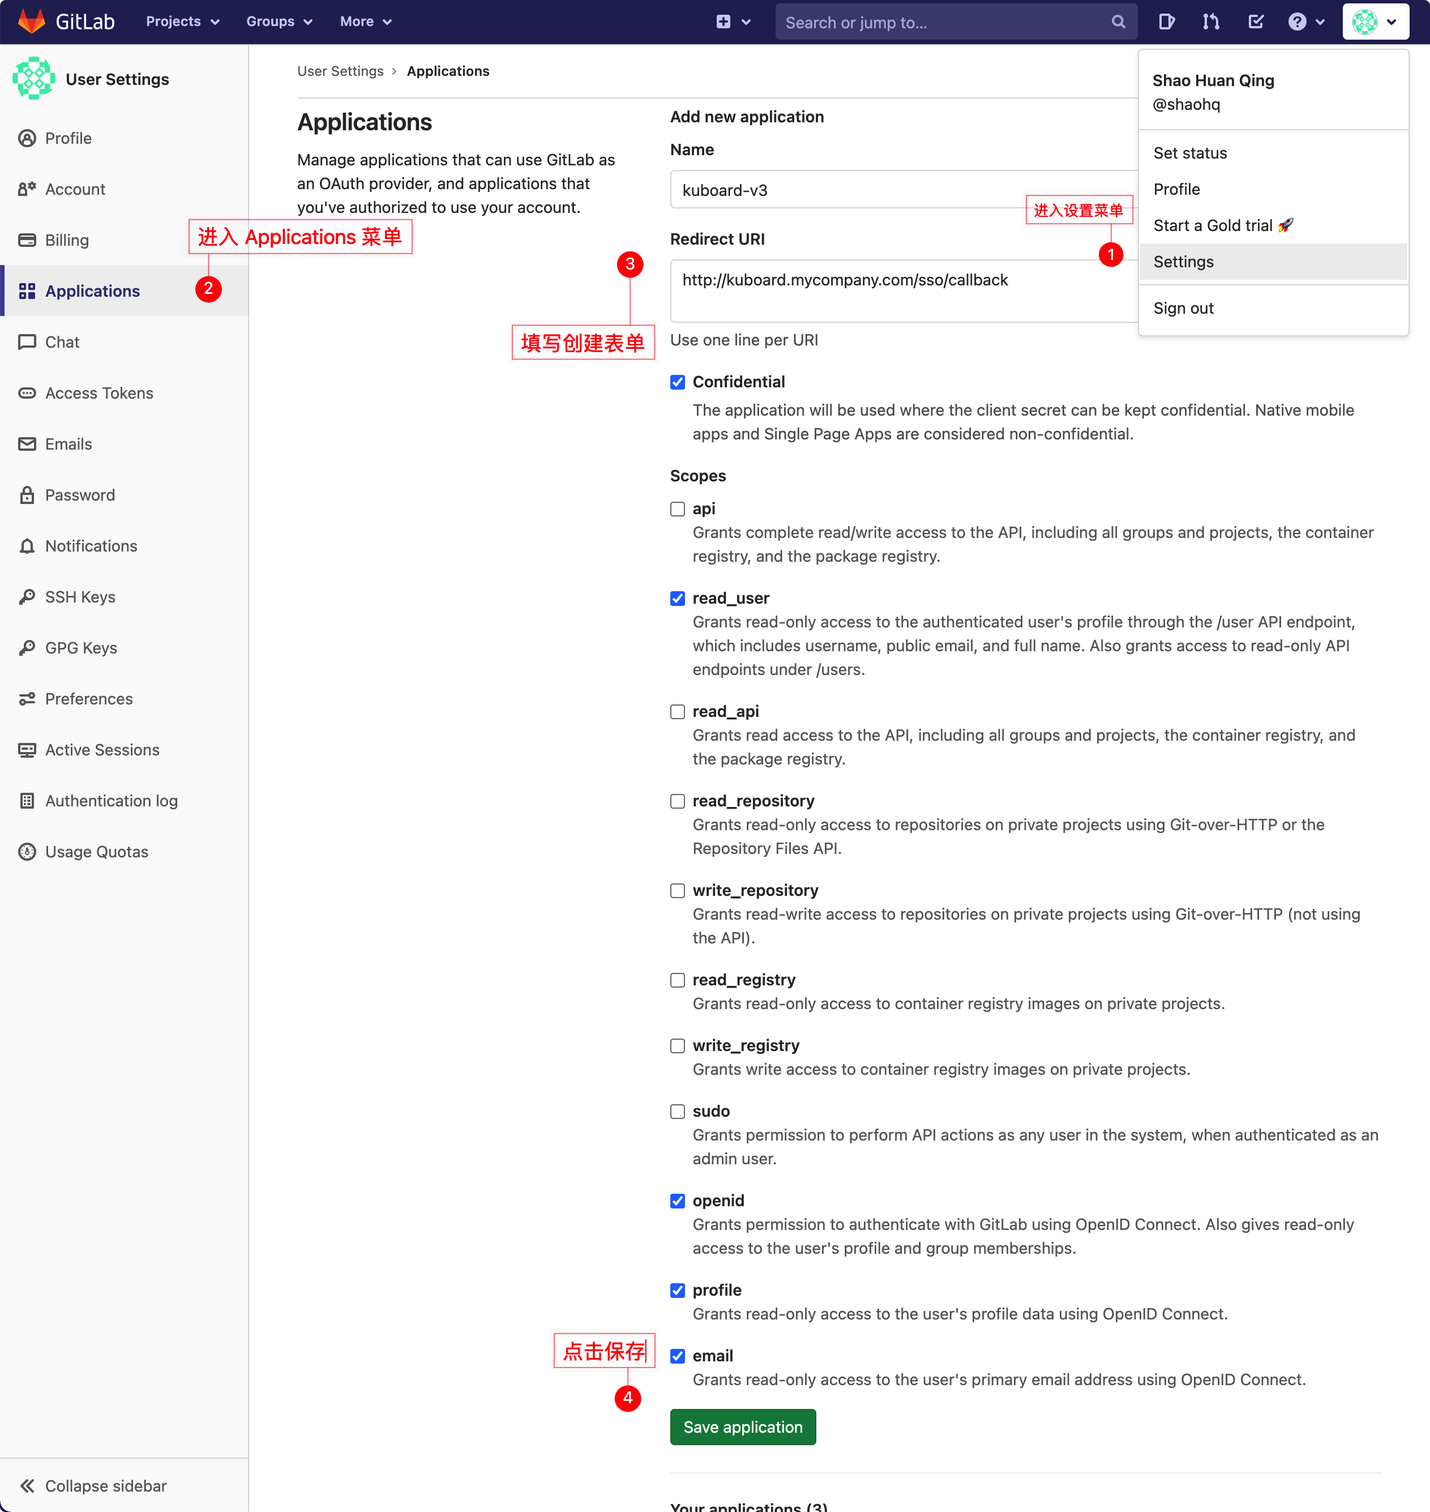
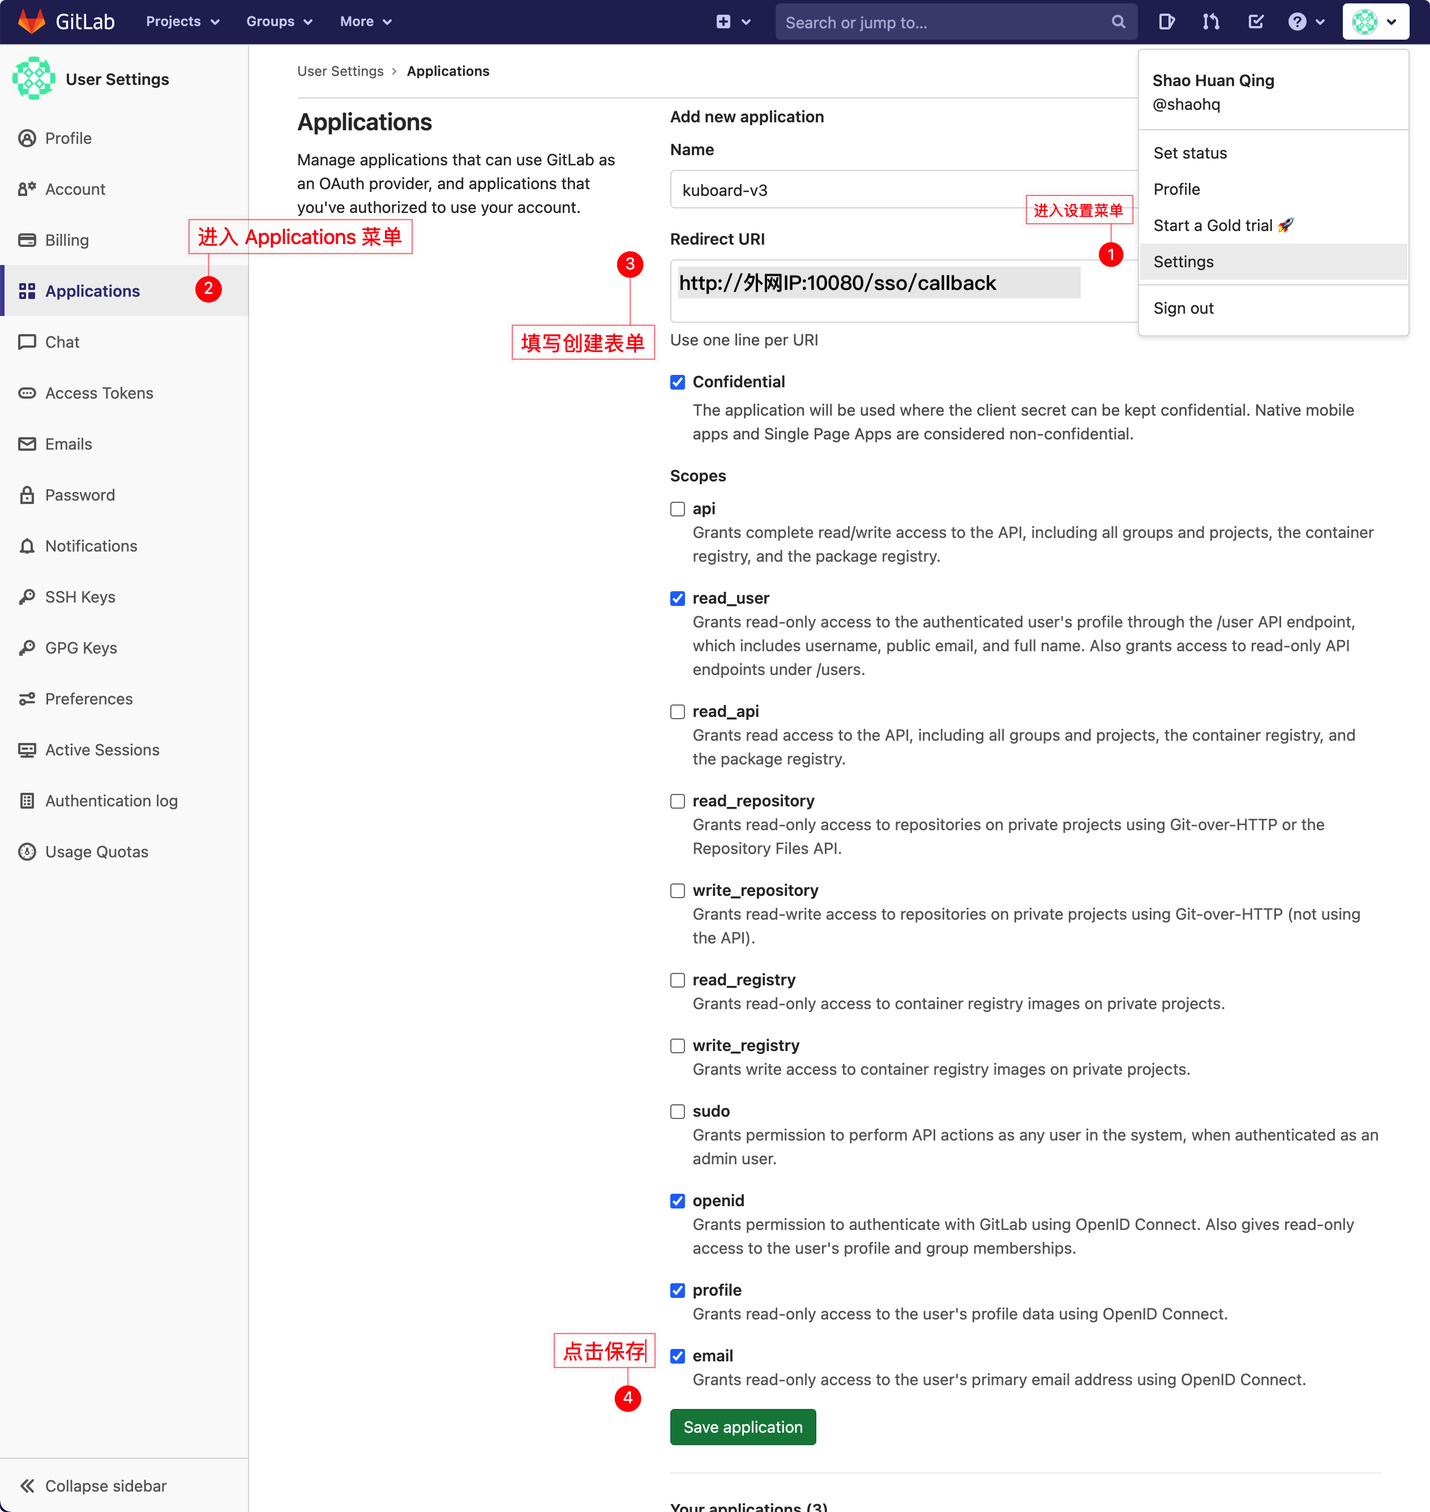
优化 Kuboard v3 的安装文档

Changed region(s): [[0.4632, 0.1554, 0.772, 0.2176]]

diff --git a/install/v3/install-gitlab.md b/install/v3/install-gitlab.md
@@ -29,25 +29,21 @@ Kuboard 支持多种认证方式：
 
 在正式安装 kuboard v3 之前，需做好一个简单的部署计划的设计，在本例中，各组件之间的连接方式，如下图所示：
 
-* 用户通过 http://gitlab.mycompany.com 访问 gitlab；
+* 用户通过 http://gitlab.this-is-a-sample.com 访问 gitlab；
 
-* 用户通过 http://kuboard.mycompany.com 访问 Kuboard v3；
+* 用户通过 http://外网IP:10080 访问 Kuboard v3；
 
-* Kuboard 通过 http://gitlab.mycompany.com 访问 GitLab API；
+* Kuboard 通过 http://gitlab.this-is-a-sample.com 访问 GitLab API；
 
-* 安装在 Kubernetes 中的 Kuboard Agent 通过 `kuboard.mycompany.com` 访问 Kuboard 的 Web 服务端口 80 / 443 和 Kuboard Agent Server 端口 10081。
+* 安装在 Kubernetes 中的 Kuboard Agent 通过 `内网IP:10080` 访问 Kuboard 的 Web 服务端口 10080 和 Kuboard Agent Server 端口 10081。
 
-  ::: tip 域名解析
-  * 必须能够通过 DNS 正确解析到该域名，如果直接在宿主机配置 `/etc/hosts` 文件，将不能正常运行；
-  * 如果不方便配置 DNS，也可以直接使用 IP 地址，例如 `http://192.168.32.21`。
-  :::
 
-![image-20201115223736418](./install-gitlab.assets/image-20201115223736418.png)
+![image-20210109224438846](./install-gitlab.assets/image-20210109224438846.png)
 
 本例子中，假设：
 
 * 您已经准备好了一个 Linux 服务器用于安装 Kuboard-V3
-* 您的 gitlab 已经完成安装且版本不低于 11，并且可以从用户的浏览器以及用于安装 Kuboard-V3 的服务器访问到（使用 URL http://gitlab.mycompany.com）
+* 您的 gitlab 已经完成安装且版本不低于 11，并且可以从用户的浏览器以及用于安装 Kuboard-V3 的服务器访问到（使用 URL http://gitlab.this-is-a-sample.com）
   * 本例子支持 gitlab-ce / gitlab-ee，也支持 gitlab.com
 
 
@@ -61,7 +57,7 @@ Kuboard 支持多种认证方式：
 | 字段名称     | 字段取值                                   | 字段说明                                                     |
 | ------------ | ------------------------------------------ | ------------------------------------------------------------ |
 | Name         | kuboad-v3                                  | 应用程序在 GitLab 中的标识，例如，此处填写了 kuboard-v3      |
-| Redirect URI | http://kuboard.my-company.com/sso/callback | 登录成功后的回调 URL，必须填写绝对路径，且必须指定到 kuboard 的 `/sso/callback` 路径 |
+| Redirect URI | http://外网IP:10080/sso/callback | 登录成功后的回调 URL，必须填写绝对路径，且必须指定到 kuboard 的 `/sso/callback` 路径 |
 | Scopes       | read_user / openid / profile / email       | 应用程序可以访问的 GitLab 接口范围，对于 Kuboard 而言，必须勾选如下几个选项： read_user / openid / profile / email |
 
 ![image-20201113212028264](./install-gitlab.assets/image-20201113212028264.png)
@@ -79,16 +75,17 @@ Kuboard 支持多种认证方式：
 sudo docker run -d \
   --restart=unless-stopped \
   --name=kuboard \
-  -p 80:80/tcp \
+  -p 10080:80/tcp \
   -p 10081:10081/udp \
   -p 10081:10081/tcp \
   -v /root/kuboard-data:/data \
   -e KUBOARD_LOGIN_TYPE="gitlab" \
-  -e KUBOARD_ENDPOINT="http://kuboard.mycompany.com" \
+  -e KUBOARD_ENDPOINT="http://内网IP:10080" \
+  # 内网 IP 不能是 127.0.0.1 或者 localhost \
   -e KUBOARD_AGENT_SERVER_UDP_PORT="10081" \
   -e KUBOARD_AGENT_SERVER_TCP_PORT="10081" \
   -e KUBOARD_ROOT_USER="shaohq" \
-  -e GITLAB_BASE_URL="http://gitlab.mycompany.com" \
+  -e GITLAB_BASE_URL="http://gitlab.this-is-a-sample.com" \
[2 lines of base64/hex data omitted]
   eipwork/kuboard:v3
@@ -96,26 +93,29 @@ sudo docker run -d \
 ```
 
 ::: danger 
-kuboard.mycompany.com 是一个假想域名，请替换成您自己的域名（运行 Kuboard 的宿主机以及所有 Kubernetes 节点都可以解析该域名），或者使用 IP 地址；
+* KUBOARD_ENDPOINT 参数的作用是，让部署到 Kubernetes 中的 `kuboard-agent` 知道如何访问 Kuboard Server；
+* KUBOARD_ENDPOINT 中也可以使用外网 IP；
+* 建议在 KUBOARD_ENDPOINT 中使用域名；
+* 如果使用域名，必须能够通过 DNS 正确解析到该域名，如果直接在宿主机配置 `/etc/hosts` 文件，将不能正常运行；
 :::
 
 ::: tip 参数说明
 * 建议将此命令保存为一个 shell 脚本，例如 `start-kuboard.sh`，后续升级 Kuboard 或恢复 Kuboard 时，需要通过此命令了解到最初安装 Kuboard 时所使用的参数；
-* 第 4 行，Kuboard v3.0 需要暴露 `80` 端口，如安装指令的第三行所示，默认映射到了宿主机的 `80` 端口，您可以根据自己的情况选择宿主机的其他端口；
+* 第 4 行，Kuboard v3.0 需要暴露 `80` 端口，如安装指令的第三行所示，默认映射到了宿主机的 `10080` 端口，您可以根据自己的情况选择宿主机的其他端口；
 * 第 5、6 行，Kuboard v3.0 需要暴露 `10081` 端口 TCP / UDP，默认映射到了宿主机的 `10081` 端口，您可以根据自己的情况选择宿主机的其他端口；
 * 第 7 行，Kuboard v3.0 的持久化数据存储在 `/data` 目录，默认映射到了宿主机的 `/root/kuboard-data` 路径，请根据您自己的情况进行调整；
 * 第 8 行，将 Kuboard v3.0 与 GitLab 进行单点登录集成时，必须指定环境变量 `KUBOARD_LOGIN_TYPE` 为 `gitlab` （适用于 gitlab.com / gitlab-ee / gitlab-ce）；
-* 第 9 行，必须指定 `KUBOARD_ENDPOINT` 环境变量为访问 Kuboard 界面的 URL；（如 [部署计划](#部署计划) 中所描述，本例子中，使用 `http://kuboard.mycompany.com` 作为通过执行此命令启动的 Kuboard 的访问 URL）；此参数不能以 `/` 结尾；
+* 第 9 行，必须指定 `KUBOARD_ENDPOINT` 环境变量为访问 Kuboard 界面的 URL；（如 [部署计划](#部署计划) 中所描述，本例子中，使用 `http://内网IP:10080` 作为通过执行此命令启动的 Kuboard 的访问 URL）；此参数不能以 `/` 结尾；
 * 第 10、11 行，指定 KUBOARD_AGENT_SERVER 的端口为 `10081`，此参数与第 5、6 行中的宿主机端口应保持一致，修改此参数不会改变容器内监听的端口 `10081`；
 * 第 12 行，必须指定 `KUBOARD_ROOT_USER`，使用该 GitLab 用户登录到 Kuboard 以后，该用户具备 Kuboard 的所有权限；
-* 第 13 行，指定 `GIBLAB_BASE_URL`，（如 [部署计划](#部署计划) 中所描述，本例子中，使用 `http://gitlab.mycompany.com` 作为通过作为 GitLab 的访问 URL，并假设 GitLab 已经事先准备就绪，如果不指定，该参数默认值为 `https://gitlab.com`）；此参数不能以 `/` 结尾；
+* 第 13 行，指定 `GIBLAB_BASE_URL`，（如 [部署计划](#部署计划) 中所描述，本例子中，使用 `http://gitlab.this-is-a-sample.com` 作为通过作为 GitLab 的访问 URL，并假设 GitLab 已经事先准备就绪，如果不指定，该参数默认值为 `https://gitlab.com`）；此参数不能以 `/` 结尾；
 * 第 14 行，必须指定 `GITLAB_APPLICATION_ID`，该参数来自于 [准备 GitLab](#准备-gitlab) 步骤中创建的 GitLab  Application 的 `Application ID` 字段
 * 第 15 行，必须指定 `GITLAB_CLIENT_SECRET`，该参数来自于 [准备 GitLab](#准备-gitlab) 步骤中创建的 GitLab  Application 的 `Secret` 字段
 :::
 
 ## 访问 Kuboard 界面
 
-* 在浏览器中输入 `http://kuboard.mycompany.com`，您将被重定向到 GitLab 登录界面；
+* 在浏览器中输入 `http://外网IP:10080`，您将被重定向到 GitLab 登录界面；
 * 在 GitLab 登录界面使用 docker run 命令中 `KUBOARD_ROOT_USER` 参数指定的用户完成登录后，GitLab 将提示您是否授权访问 Kuboard，如下图所示：
 
   ![image-20201113215827177](./install-gitlab.assets/image-20201113215827177.png)

diff --git a/install/v3/install-ldap.md b/install/v3/install-ldap.md
@@ -30,18 +30,14 @@ Kuboard 支持多种认证方式：
 在正式安装 kuboard v3 之前，需做好一个简单的部署计划的设计，在本例中，各组件之间的连接方式，如下图所示：
 
 
-* 用户通过 http://kuboard.mycompany.com 访问 Kuboard v3；
+* 用户通过 http://外网IP:10080 访问 Kuboard v3；
 
 * Kuboard 通过 `localhost:389` 和 `localhost:636` 访问 LDAP；
 
-* 安装在 Kubernetes 中的 Kuboard Agent 通过 `kuboard.mycompany.com` 访问 Kuboard 的 Web 服务端口 80 / 443 和 Kuboard Agent Server 端口 10081。
+* 安装在 Kubernetes 中的 Kuboard Agent 通过 `内网IP:10080` 访问 Kuboard 的 Web 服务端口 10080 和 Kuboard Agent Server 端口 10081。
 
-  ::: tip 域名解析
-  * 必须能够通过 DNS 正确解析到该域名，如果直接在宿主机配置 `/etc/hosts` 文件，将不能正常运行；
-  * 如果不方便配置 DNS，也可以直接使用 IP 地址，例如 `http://192.168.32.21`。
-  :::
 
-![image-20201115230620704](./install-ldap.assets/image-20201115230620704.png)
+![image-20210109231936944](./install-ldap.assets/image-20210109231936944.png)
 
 本例子中，假设：
 
@@ -68,7 +64,7 @@ Kuboard 支持多种认证方式：
   
 * 登录 phpLDAPadmin
   
-  在浏览器输入 `https://kuboard.mycompany.com:6443` ，按下图所示步骤登录 phpLDAPadmin：
+  在浏览器输入 `https://内网IP:10080:6443` ，按下图所示步骤登录 phpLDAPadmin：
   
   | 字段名称 | 字段值                     | 字段描述       |
   | -------- | -------------------------- | -------------- |
@@ -137,12 +133,13 @@ Kuboard 支持多种认证方式：
 sudo docker run -d \
   --restart=unless-stopped \
   --name=kuboard \
-  -p 80:80/tcp \
+  -p 10080:80/tcp \
   -p 10081:10081/udp \
   -p 10081:10081/tcp \
   -v /Users/shaohuanqing/temp/kuboard-data:/data \
   -e KUBOARD_LOGIN_TYPE="ldap" \
-  -e KUBOARD_ENDPOINT="http://kuboard.mycompany.com" \
+  -e KUBOARD_ENDPOINT="http://内网IP:10080" \
+  # 内网 IP 不能是 127.0.0.1 或者 localhost \
   -e KUBOARD_AGENT_SERVER_UDP_PORT="10081" \
   -e KUBOARD_AGENT_SERVER_TCP_PORT="10081" \
   -e KUBOARD_ROOT_USER="shaohq" \
@@ -165,16 +162,19 @@ sudo docker run -d \
 ```
 
 ::: danger 
-kuboard.mycompany.com 是一个假想域名，请替换成您自己的域名（运行 Kuboard 的宿主机以及所有 Kubernetes 节点都可以解析该域名），或者使用 IP 地址；
+* KUBOARD_ENDPOINT 参数的作用是，让部署到 Kubernetes 中的 `kuboard-agent` 知道如何访问 Kuboard Server；
+* KUBOARD_ENDPOINT 中也可以使用外网 IP；
+* 建议在 KUBOARD_ENDPOINT 中使用域名；
+* 如果使用域名，必须能够通过 DNS 正确解析到该域名，如果直接在宿主机配置 `/etc/hosts` 文件，将不能正常运行；
 :::
 
 ::: tip 参数说明
 * 建议将此命令保存为一个 shell 脚本，例如 `start-kuboard.sh`，后续升级 Kuboard 或恢复 Kuboard 时，需要通过此命令了解到最初安装 Kuboard 时所使用的参数；
-* 第 4 行，Kuboard v3.0 需要暴露 `80` 端口，如安装指令的第三行所示，默认映射到了宿主机的 `80` 端口，您可以根据自己的情况选择宿主机的其他端口；
+* 第 4 行，Kuboard v3.0 需要暴露 `80` 端口，如安装指令的第三行所示，默认映射到了宿主机的 `10080` 端口，您可以根据自己的情况选择宿主机的其他端口；
 * 第 5、6 行，Kuboard v3.0 需要暴露 `10081` 端口 TCP / UDP，默认映射到了宿主机的 `10081` 端口，您可以根据自己的情况选择宿主机的其他端口；
 * 第 7 行，Kuboard v3.0 的持久化数据存储在 `/data` 目录，默认映射到了宿主机的 `/root/kuboard-data` 路径，请根据您自己的情况进行调整；
 * 第 8 行，将 Kuboard v3.0 与 GitLab 进行单点登录集成时，必须指定环境变量 `KUBOARD_LOGIN_TYPE` 为 `gitlab` （适用于 gitlab.com / gitlab-ee / gitlab-ce）；
-* 第 9 行，必须指定 `KUBOARD_ENDPOINT` 环境变量为访问 Kuboard 界面的 URL；（如 [部署计划](#部署计划) 中所描述，本例子中，使用 `http://kuboard.mycompany.com` 作为通过执行此命令启动的 Kuboard 的访问 URL）；此参数不能以 `/` 结尾；
+* 第 9 行，必须指定 `KUBOARD_ENDPOINT` 环境变量为访问 Kuboard 界面的 URL；（如 [部署计划](#部署计划) 中所描述，本例子中，使用 `http://内网IP:10080` 作为通过执行此命令启动的 Kuboard 的访问 URL）；此参数不能以 `/` 结尾；
 * 第 10、11 行，指定 KUBOARD_AGENT_SERVER 的端口为 `10081`，此参数与第 5、6 行中的宿主机端口应保持一致，修改此参数不会改变容器内监听的端口 `10081`；
 * 第 12 行，必须指定 `KUBOARD_ROOT_USER`，使用该 GitLab 用户登录到 Kuboard 以后，该用户具备 Kuboard 的所有权限；
 :::
@@ -206,13 +206,8 @@ LDAP 相关的参数相对复杂，本章节以 Kuboard 集成 LDAP 时，对 LD
 
 ## 访问 Kuboard 界面
 
-* 在浏览器中输入 `http://kuboard.mycompany.com`，您将被重定向到 GitLab 登录界面；
-* 在 GitLab 登录界面使用 docker run 命令中 `KUBOARD_ROOT_USER` 参数指定的用户完成登录后，GitLab 将提示您是否授权访问 Kuboard，如下图所示：
-
-  ![image-20201113215827177](./install-gitlab.assets/image-20201113215827177.png)
-
-* 点击上图中的 ***Authorize*** 按钮后，您将成功登录 Kuboard 界面。
-
+* 在浏览器中输入 `http://外网IP:10080`，将进入登录界面；
+* 在登录界面中输入您在 LDAP 中的用户名、密码，并点击登录按钮，您将可以成功登录 Kuboard。
 ## 授权用户访问 Kuboard
 
 默认情况下，只有 `KUBOARD_ROOT_USER` 参数指定的用户可以执行 Kuboard 中的所有操作，其他用户通过单点登录进入 Kuboard 系统后，除了退出系统，几乎什么事情也做不了。为了让单点登录的用户获得合适的权限，您需要在 Kuboard 中为对应的用户/用户组授权。请参考 [为单点登录的用户/用户组授权](./auth-user-sso.html)

diff --git a/install/v3/install-built-in.md b/install/v3/install-built-in.md
@@ -14,18 +14,14 @@ meta:
 
 在正式安装 kuboard v3 之前，需做好一个简单的部署计划的设计，在本例中，各组件之间的连接方式，如下图所示：
 
-* 假设用户通过 http://kuboard.mycompany.com 访问 Kuboard v3；
+* 假设用户通过 http://外网IP:10080 访问 Kuboard v3；
 
-* 安装在 Kubernetes 中的 Kuboard Agent 通过 `kuboard.mycompany.com` 访问 Kuboard 的 Web 服务端口 80 / 443 和 Kuboard Agent Server 端口 10081。
-
-  ::: tip 域名解析
-  * 必须能够通过 DNS 正确解析到该域名，如果直接在宿主机配置 `/etc/hosts` 文件，将不能正常运行；
-  * 如果不方便配置 DNS，也可以直接使用 IP 地址，例如 `http://192.168.32.21`。
-  :::
+* 安装在 Kubernetes 中的 Kuboard Agent 通过 `内网IP` 访问 Kuboard 的 Web 服务端口 10080 和 Kuboard Agent Server 端口 10081。
 
 <p>
-<img src="./install-built-in.assets/image-20201117194202143.png" style="max-width: 600px; margin-left: 20px;"/>
+<img src="./install-built-in.assets/image-20210109213231697.png" style="max-width: 600px; margin-left: 20px;"/>
 </p>
+
 
 安装 Kuboard 之前，假设：
 
@@ -41,10 +37,11 @@ meta:
 sudo docker run -d \
   --restart=unless-stopped \
   --name=kuboard \
-  -p 80:80/tcp \
+  -p 10080:80/tcp \
   -p 10081:10081/udp \
   -p 10081:10081/tcp \
-  -e KUBOARD_ENDPOINT="http://kuboard.mycompany.com" \
+  -e KUBOARD_ENDPOINT="http://内网IP:10080" \
+  # 内网 IP 不能是 127.0.0.1 或者 localhost \
   -e KUBOARD_AGENT_SERVER_UDP_PORT="10081" \
   -e KUBOARD_AGENT_SERVER_TCP_PORT="10081" \
   -v /root/kuboard-data:/data \
@@ -53,27 +50,23 @@ sudo docker run -d \
 ```
 
 ::: danger 
-kuboard.mycompany.com 是一个假想域名，请替换成您自己的域名（运行 Kuboard 的宿主机以及所有 Kubernetes 节点都可以解析该域名），或者使用 IP 地址；
+* KUBOARD_ENDPOINT 参数的作用是，让部署到 Kubernetes 中的 `kuboard-agent` 知道如何访问 Kuboard Server；
+* KUBOARD_ENDPOINT 中也可以使用外网 IP；
+* 建议在 KUBOARD_ENDPOINT 中使用域名；
+* 如果使用域名，必须能够通过 DNS 正确解析到该域名，如果直接在宿主机配置 `/etc/hosts` 文件，将不能正常运行；
 :::
 
 ::: tip 参数解释
 * 建议将此命令保存为一个 shell 脚本，例如 `start-kuboard.sh`，后续升级 Kuboard 或恢复 Kuboard 时，需要通过此命令了解到最初安装 Kuboard 时所使用的参数；
-* 第 4 行，将 Kuboard Web 端口 80 映射到宿主机的 `80` 端口（您可以根据自己的情况选择宿主机的其他端口）；
+* 第 4 行，将 Kuboard Web 端口 80 映射到宿主机的 `10080` 端口（您可以根据自己的情况选择宿主机的其他端口）；
 * 第 5、6 行，将 Kuboard Agent Server 的端口 `10081/udp`、`10081/tcp` 映射到宿主机的 `10081` 端口（您可以根据自己的情况选择宿主机的其他端口）；
-* 第 7 行，指定 KUBOARD_ENDPOINT 为 `http://kuboard.mycompany.com`，如果后续修改此参数，需要将已导入的 Kubernetes 集群从 Kuboard 中删除，再重新导入；
+* 第 7 行，指定 KUBOARD_ENDPOINT 为 `http://内网IP`，如果后续修改此参数，需要将已导入的 Kubernetes 集群从 Kuboard 中删除，再重新导入；
 * 第 8、9 行，指定 KUBOARD_AGENT_SERVER 的端口为 `10081`，此参数与第 5、6 行中的宿主机端口应保持一致，修改此参数不会改变容器内监听的端口 `10081`；
 * 第 10 行，将持久化数据 `/data` 目录映射到宿主机的 `/root/kuboard-data` 路径，请根据您自己的情况调整宿主机路径；
 :::
 
 ## 访问 Kuboard v3.0
 
-在浏览器输入 `http://your-host-ip` 即可访问 Kuboard v3.0 的界面，登录方式：
+在浏览器输入 `http://your-host-ip:10080` 即可访问 Kuboard v3.0 的界面，登录方式：
 * 用户名： `admin`
 * 密 码： `Kuboard123`
-
-
-## 问题反馈
-
-关于 Kuboard v3.0.0 版本的问题反馈，请加 QQ 群：656520037
-
-<img style="padding: 10px; width: 200px; border: 1px solid #eee; border-radius: 5px;" src="https://kuboard.cn/images/kuboard_qq.png"/>

diff --git a/install/v3/proxy.md b/install/v3/proxy.md
@@ -16,7 +16,7 @@ meta:
 
 在为 Kuboard 配置反向代理时，需要注意：
 * WebContextRoot
-  * Kuboard 需要使用根路径进行访问，即 https://kuboard.mycompany.com/，而不能是 https://mycompany.com/kuboard/ 这样的二级路径；
+  * Kuboard 需要使用根路径进行访问，即 https://kuboard.this-is-a-sample.com/，而不能是 https://this-is-a-sample.com/kuboard/ 这样的二级路径；
 * 启用 WebSocket
   * Kuboard 中终端和日志的功能需要用到 WebSocket，需要在您的反向代理中配置 WebSocket，才能正常使用 Kuboard 的终端和日志功能；
   
@@ -42,7 +42,7 @@ http {
 
   server {
     listen       80; 
-    server_name  kuboard.mycompany.com; # 替换成你的域名，应该与 KUBOARD_ENDPOINT 中的域名部分保持一致
+    server_name  kuboard.this-is-a-sample.com; # 替换成你的域名
 
     location / {
       proxy_pass http://192.168.32.205:10080/;  # 替换成你的 Kuboard IP 地址和端口，应该是 IP 地址，而不是 KUBOARD_ENDPOINT 参数的值

diff --git a/install/v3-upgrade.md b/install/v3-upgrade.md
@@ -23,10 +23,10 @@ meta:
   sudo docker run -d \
     --restart=unless-stopped \
     --name=kuboard \
-    -p 80:80/tcp \
+    -p 10080:80/tcp \
     -p 10081:10081/udp \
     -p 10081:10081/tcp \
-    -e KUBOARD_ENDPOINT="http://kuboard.mycompany.com" \
+    -e KUBOARD_ENDPOINT="http://kuboard.this-is-a-sample.com:10080" \
     -e KUBOARD_AGENT_SERVER_UDP_PORT="10081" \
     -e KUBOARD_AGENT_SERVER_TCP_PORT="10081" \
     -v /root/kuboard-data:/data \
